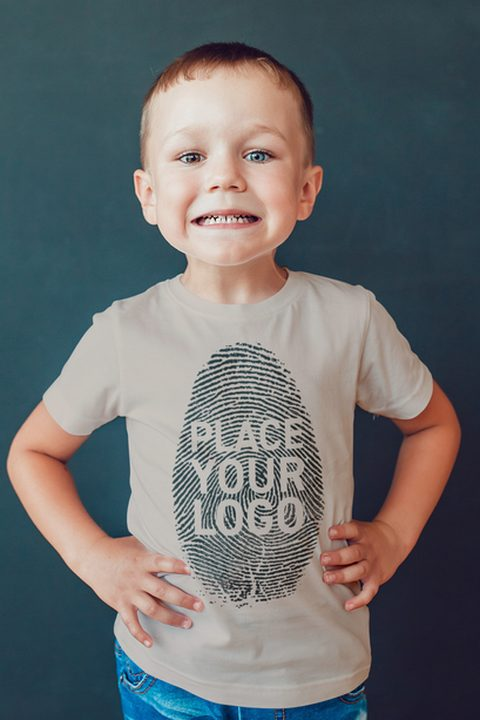
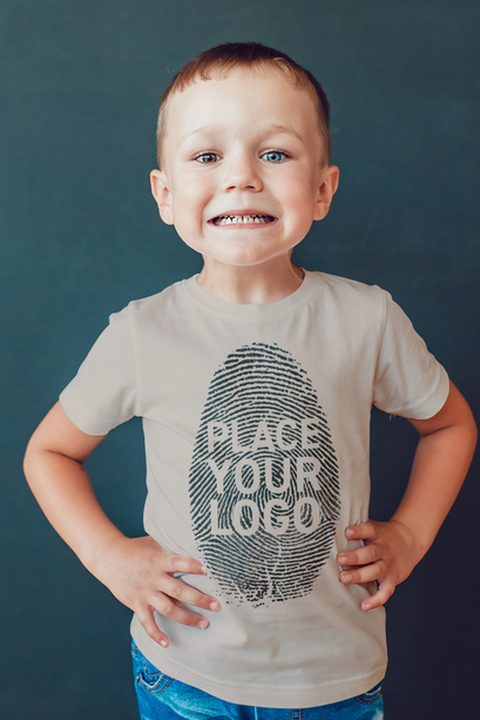
Reject implausibly large face candidates before picking topmost
BUG (2026-09-15, "а че ты их центруешь только при наведении курсора?"):
the previous "topmost, not largest" heuristic had no sanity check on a
candidate box's own size, so an implausibly huge false-positive box could
still win the topmost tie-break over the real face if its y happened to be
equal or smaller. On mockup1007_package (kids2 group's own representative
gallery card) the default photo detected a real 171x171 face and a bogus
444x444 box tied at y=62 (tie-break kept the real face), while the
hover-color photo (same shoot/pose, only the shirt recolored) detected the
same real face at y=62 plus a DIFFERENT bogus 479x479 box at y=48 - one
pixel higher, so topmost picked the bogus box there instead. Since both
photos are the same shot, the crop should have been identical for the
default and hover thumbnails; instead they came out ~2% of frame width
apart, which is exactly what read as "only centers on hover".

FIX: reject any candidate wider than 35% of the image width before
picking topmost. Checked across all 110 face detections in the 11.09
batch: the largest legitimate face tops out at 28% of image width, then
there's a clean jump straight to this one 52%-wide false positive, so 35%
is a safe cutoff. Falls back to the existing geometric-center behavior if
every candidate gets filtered out.

Re-ran --force --all across all 208 packages: exactly 1 thumbnail changed
(mockup1007_package/shirt_preview_color_thumb.jpg, the case above) -
[…]

Changed region(s): [[0.0, 0.0611, 1.0, 1.0], [0.625, 0.4278, 0.6875, 0.4583]]

diff --git a/tools/gen_gallery_thumbs.py b/tools/gen_gallery_thumbs.py
@@ -54,6 +54,28 @@ the right of frame, a teen almost entirely cropped out except a staircase),
 no regression on the other 4 (including two false-positive-prone
 backgrounds that "topmost" correctly ignored in favor of the real face).
 
+BUG 3 (2026-09-15, "а че ты их центруешь только при наведении курсора?"): BUG
+2's "topmost, not largest" heuristic had no sanity check on a candidate's own
+size, so an implausibly huge false-positive box could still beat the real face
+in the topmost tie-break if its y happened to be equal or smaller. Concretely,
+on `mockup1007_package` (kids2 group's own representative gallery card) the
+default photo (`shirt_preview.png`) detected a real 171x171 face and a bogus
+444x444 box tied at y=62 — the tie-break happened to keep the real face — but
+the hover-color photo (`shirt_preview_color.png`, same shoot/pose, only the
+shirt recolored) detected the same real face at y=62 plus a DIFFERENT bogus
+box, 479x479 at y=48 — one pixel higher, so "topmost" picked the bogus box
+there instead. Since both source photos are the same shot, the crop should
+have come out identical for the default and hover thumbnails; instead the
+default view centered on the real face while the hover view centered on the
+bogus box (~2% of frame width off), which is exactly what read as "only
+centers on hover" — the two states genuinely used different crop centers.
+FIX: reject any candidate wider than 35% of the image width before picking
+topmost (`MAX_FACE_FRAC`) — checked across all 110 face detections in the
+11.09 batch, the largest legitimate face tops out at 28% of image width, then
+there's a clean jump straight to this one 52%-wide false positive, so 35% is
+a safe cutoff that drops only implausible boxes. Falls back to no-face-found
+(the existing geometric-center fallback) if every candidate gets filtered out.
+
 Usage: python3 tools/gen_gallery_thumbs.py [--force] <package_dir> [<package_dir> ...]
        python3 tools/gen_gallery_thumbs.py --force --all   # every mockup*_package dir here
 """
@@ -103,19 +125,52 @@ def thumb_name(src_name):
     return base + "_thumb.jpg"
 
 
+# BUG 3 (2026-09-15, "а че ты их центруешь только при наведении курсора?"): the
+# "topmost, not largest" heuristic above (BUG 2) still had no sanity check on a
+# candidate's own size, so it could pick an implausibly huge "face" box if that
+# box's y happened to tie/beat the real face's y. Concretely, on
+# mockup1007_package (the kids2 group's own representative card) the base photo
+# (shirt_preview.png) detected two candidates tied at y=62 — a real 171x171 face
+# and a bogus 444x444 box — and min()'s left-to-right tie-break happened to keep
+# the real face; the hover-color photo (shirt_preview_color.png, same shoot,
+# same pose, only the shirt recolored) detected a real 171x171 face at y=62 AND
+# a bogus 479x479 box at y=48 — one pixel higher, so "topmost" picked the bogus
+# box instead. Both source images are the same photo, so the correct crop
+# should have been identical for the default and hover thumbnails; instead the
+# default (base) view came out centered on the real face while the hover view
+# came out centered on the bogus box (~16px/920px, ~2% of frame, shifted) —
+# which is exactly what looked like "only centers on hover" from the user's
+# side, since the two states genuinely used different crop centers.
+# FIX: reject any candidate wider than `MAX_FACE_FRAC` of the image width
+# before picking "topmost" — a real face in these compositions never gets
+# anywhere near that large (checked across all 110 detections in the 11.09
+# batch: the next-largest legitimate face tops out at 28% of image width, then
+# there's a clean jump straight to this one 52%-wide false positive), so 35% is
+# a safe cutoff that keeps every real detection and drops only implausible
+# ones. If every candidate gets filtered out, fall back to no-face-found
+# (the caller's existing geometric-center fallback), same as an empty
+# `detectMultiScale` result.
+MAX_FACE_FRAC = 0.35
+
+
 def _detect_face_center_x(src_path):
-    """Return the x-center of the TOPMOST detected face, or None if no face
-    is found. Topmost (smallest y), not largest, since a standing subject's
-    head is reliably the highest point of the body, while the largest box
-    among several candidates is sometimes a false positive on a busy
-    background that happens to score bigger than the real, smaller face."""
+    """Return the x-center of the TOPMOST plausible detected face, or None if
+    no face is found. Topmost (smallest y), not largest, since a standing
+    subject's head is reliably the highest point of the body, while the
+    largest box among several candidates is sometimes a false positive on a
+    busy background that happens to score bigger than the real, smaller face
+    (see BUG 2). Candidates wider than MAX_FACE_FRAC of the image are dropped
+    before picking topmost, since an implausibly large box can otherwise still
+    win the topmost tie-break over the real, smaller face (see BUG 3)."""
     cv_img = cv2.imread(src_path)
     if cv_img is None:
         return None
+    h, w = cv_img.shape[:2]
     gray = cv2.equalizeHist(cv2.cvtColor(cv_img, cv2.COLOR_BGR2GRAY))
     faces = _FACE_CASCADE.detectMultiScale(
         gray, scaleFactor=1.05, minNeighbors=6, minSize=(50, 50)
     )
+    faces = [f for f in faces if f[2] <= MAX_FACE_FRAC * w]
     if len(faces) == 0:
         return None
     x, y, fw, fh = min(faces, key=lambda f: f[1])
